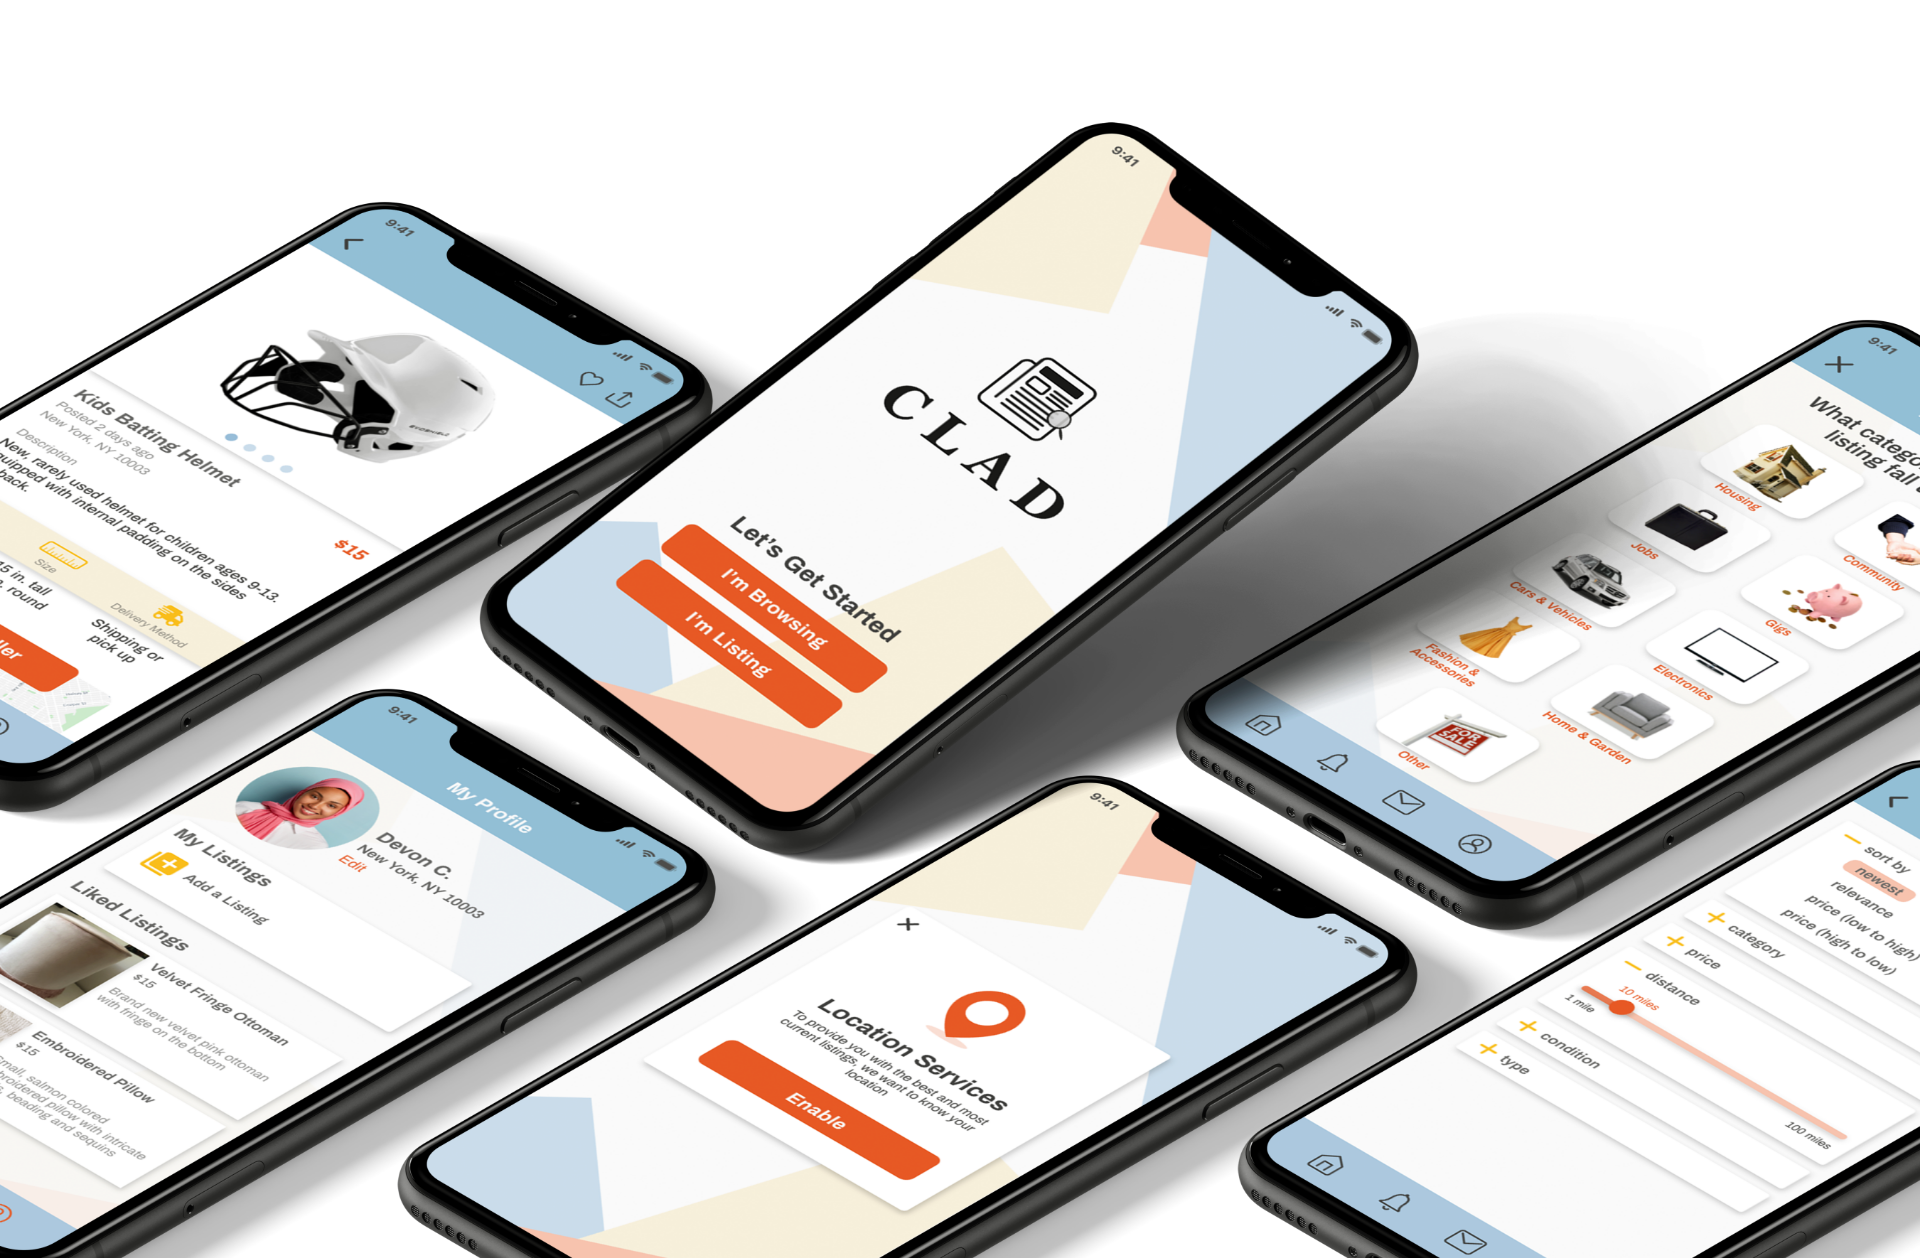
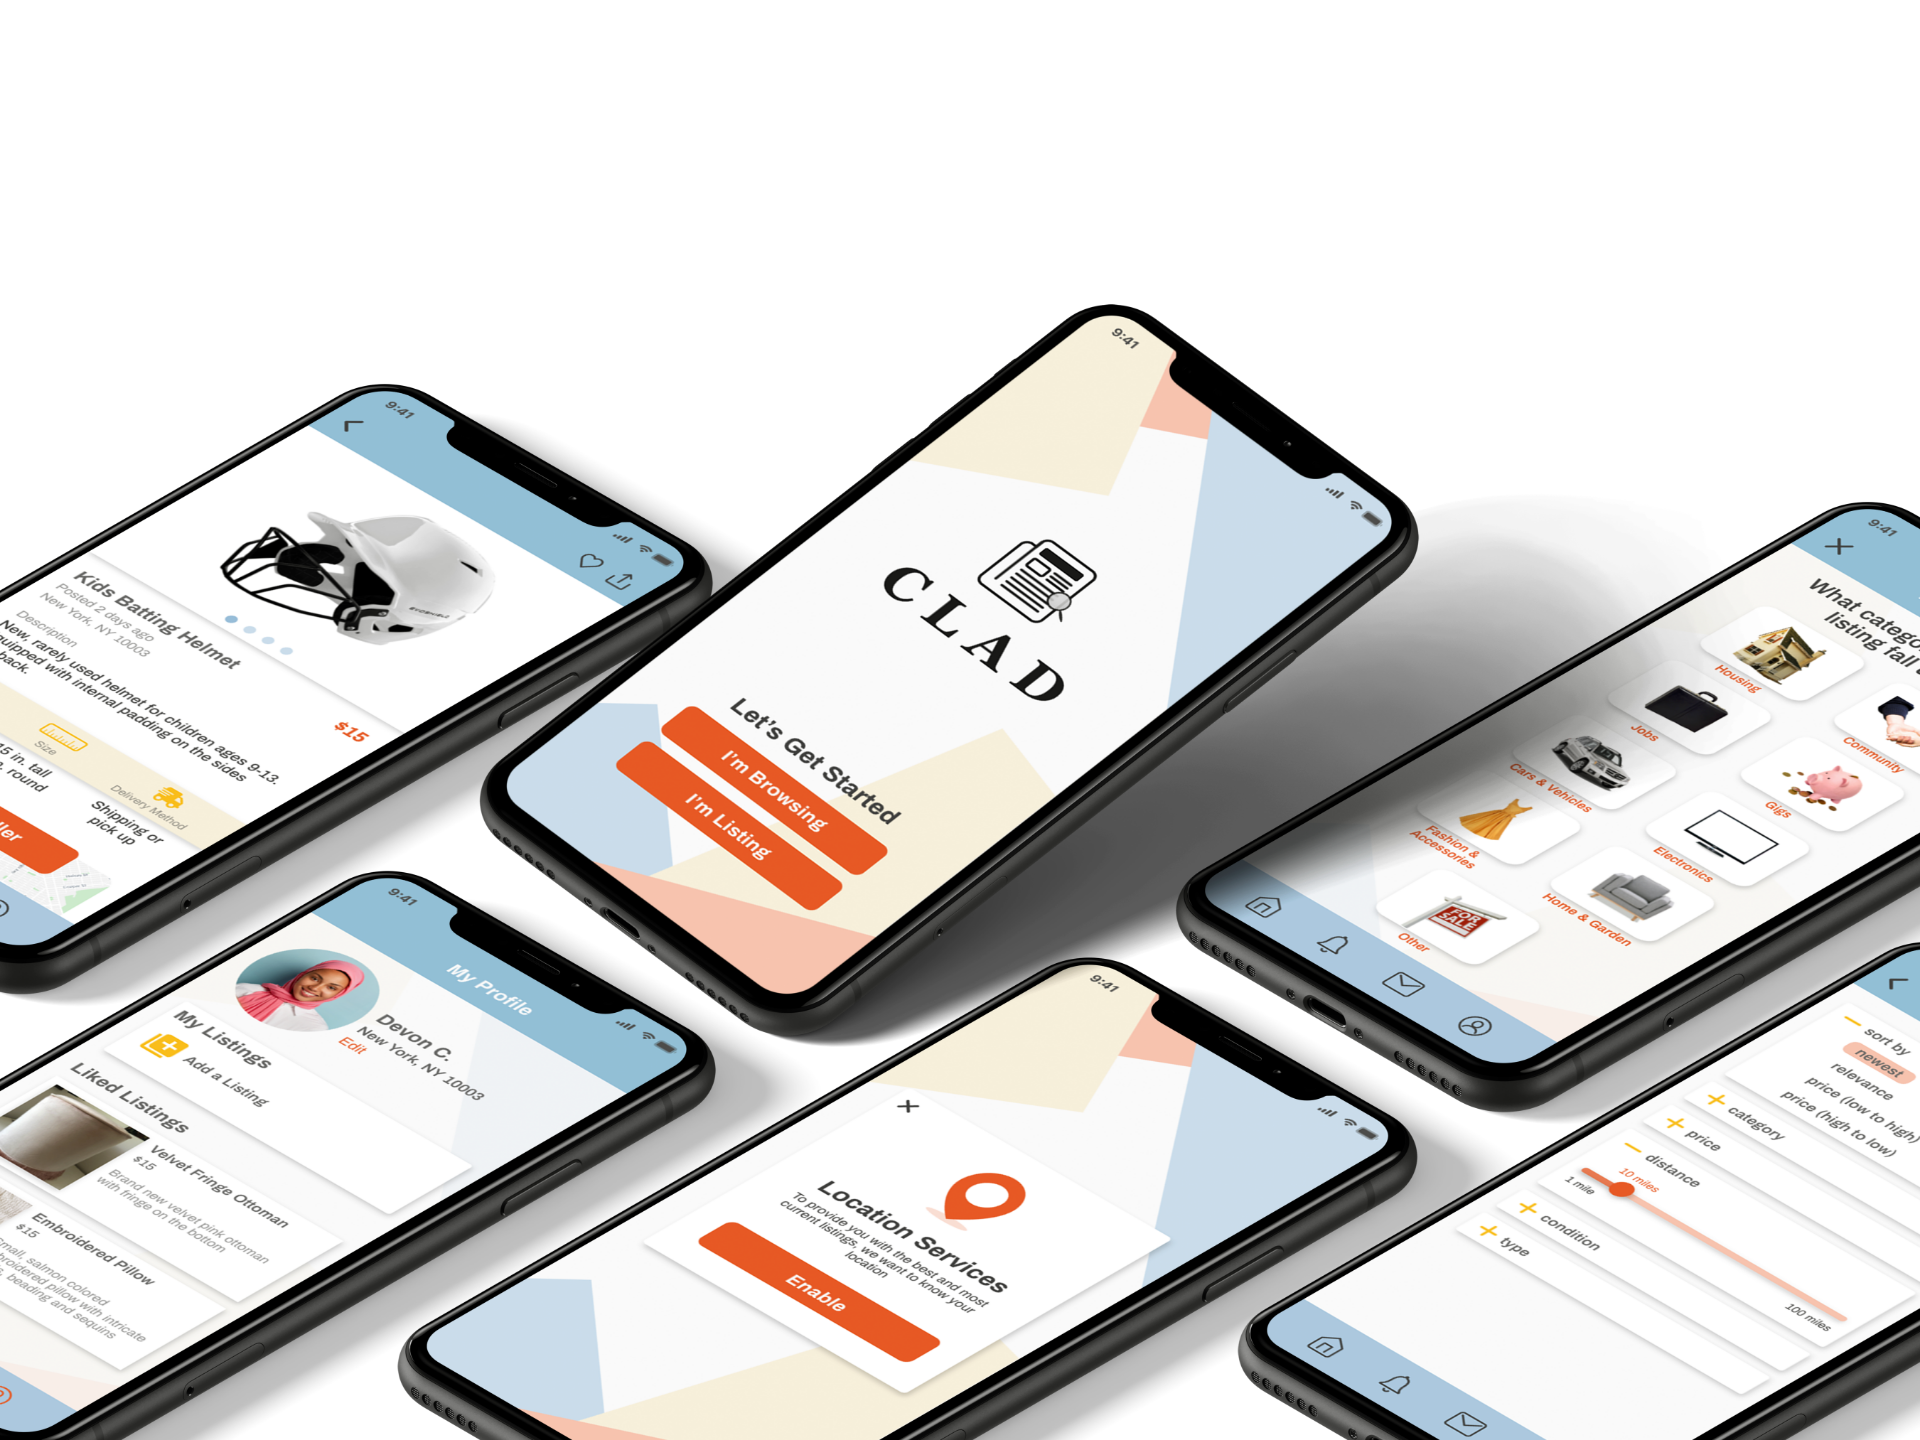
Revert "changes to clad opening images"
This reverts commit 5eaf949eb198e311c09e11cf399db368372f2ae4.

diff --git a/clad.html b/clad.html
@@ -63,26 +63,18 @@
 	<main id="project">
 		<!--Open Main Project Section-->
 		<div class="container">
-			<div id="clad" class="section">
+			<div class="section">
 				<!-- Open Intro Section-->
 				<div class="center">
 					<h2>CLAD</h2>
 					<p class="first">A mobile application for classified ads</p>
-				</div>
-			</div> <!-- Close Intro Section-->
-		</div>
-
 					<div>
 						<picture>
-							<source srcset="img/clad/mastheads/clad-masthead-all-screens.png" media="(max-width:767px)">
-							<img src="img/clad/mastheads/clad-masthead-all-screens@2x.png" alt="CLAD project image">
+							<source srcset="img/clad/overview/opening-img.png" media="(max-width:767px)">
+							<img class="max-width-250 center padded-img" src="img/clad/overview/opening-img@2x.png" alt="CLAD project image">
 						</picture>
 					</div>
-
-
-		<div class="container">
-			<div class="section">
-				<div class="center">
+					<div class="center">
 						<div class="details">
 							<h4>Role:</h4>
 							<p>UI Designer</p>
@@ -140,8 +132,10 @@
 						</div>
 					</div>
 				</div>
+			</div> <!-- Close Intro Section-->
 
-			<div class="section"> <!-- Open Overview Section-->
+			<div class="section">
+				<!-- Open Overview Section-->
 				<div class="row">
 					<div class="col-md-6">
 						<h3>Overview</h3>
@@ -157,7 +151,18 @@
 					</div>
 				</div>
 			</div><!-- Close Overview Section-->
+		</div> <!-- Close Container-->
 
+		<div class="section">
+			<div>
+				<picture>
+					<source srcset="img/clad/mastheads/clad-masthead-all-screens.png" media="(max-width:767px)">
+					<img src="img/clad/mastheads/clad-masthead-all-screens@2x.png" alt="CLAD project image">
+				</picture>
+			</div>
+		</div>
+
+		<div class="container">
 			<div class="section">
 				<!-- Open The Problem Section-->
 				<div class="row">
@@ -365,6 +370,7 @@
 					</div>
 				</div>
 			</div> <!-- Close Final Designs Section-->
+		</div> <!-- Close Container-->
 
 		<div class="section">
 			<!-- Open Mockups Section-->
@@ -381,8 +387,8 @@
 				</picture>
 			</div>
 		</div> <!-- Close Mockups Section-->
-	</div> <!-- Close Container-->
-</main> <!-- Close Main Project Section-->
+
+	</main> <!-- Close Main Project Section-->
 
 
 

diff --git a/css/style.css b/css/style.css
@@ -344,10 +344,6 @@ ul {
   margin-bottom: 0;
 }
 
-#clad.section:first-child {
-  margin-bottom: 0;
-}
-
 .black-bg {
   background-color: #3B3B3B;
   border-radius: 15px;
@@ -783,7 +779,7 @@ Large devices (1024px or larger)
       max-height: 600px;
       width: auto;
     }
-
+    
     .max-height-350 {
       max-height: 550px;
       width: auto;
